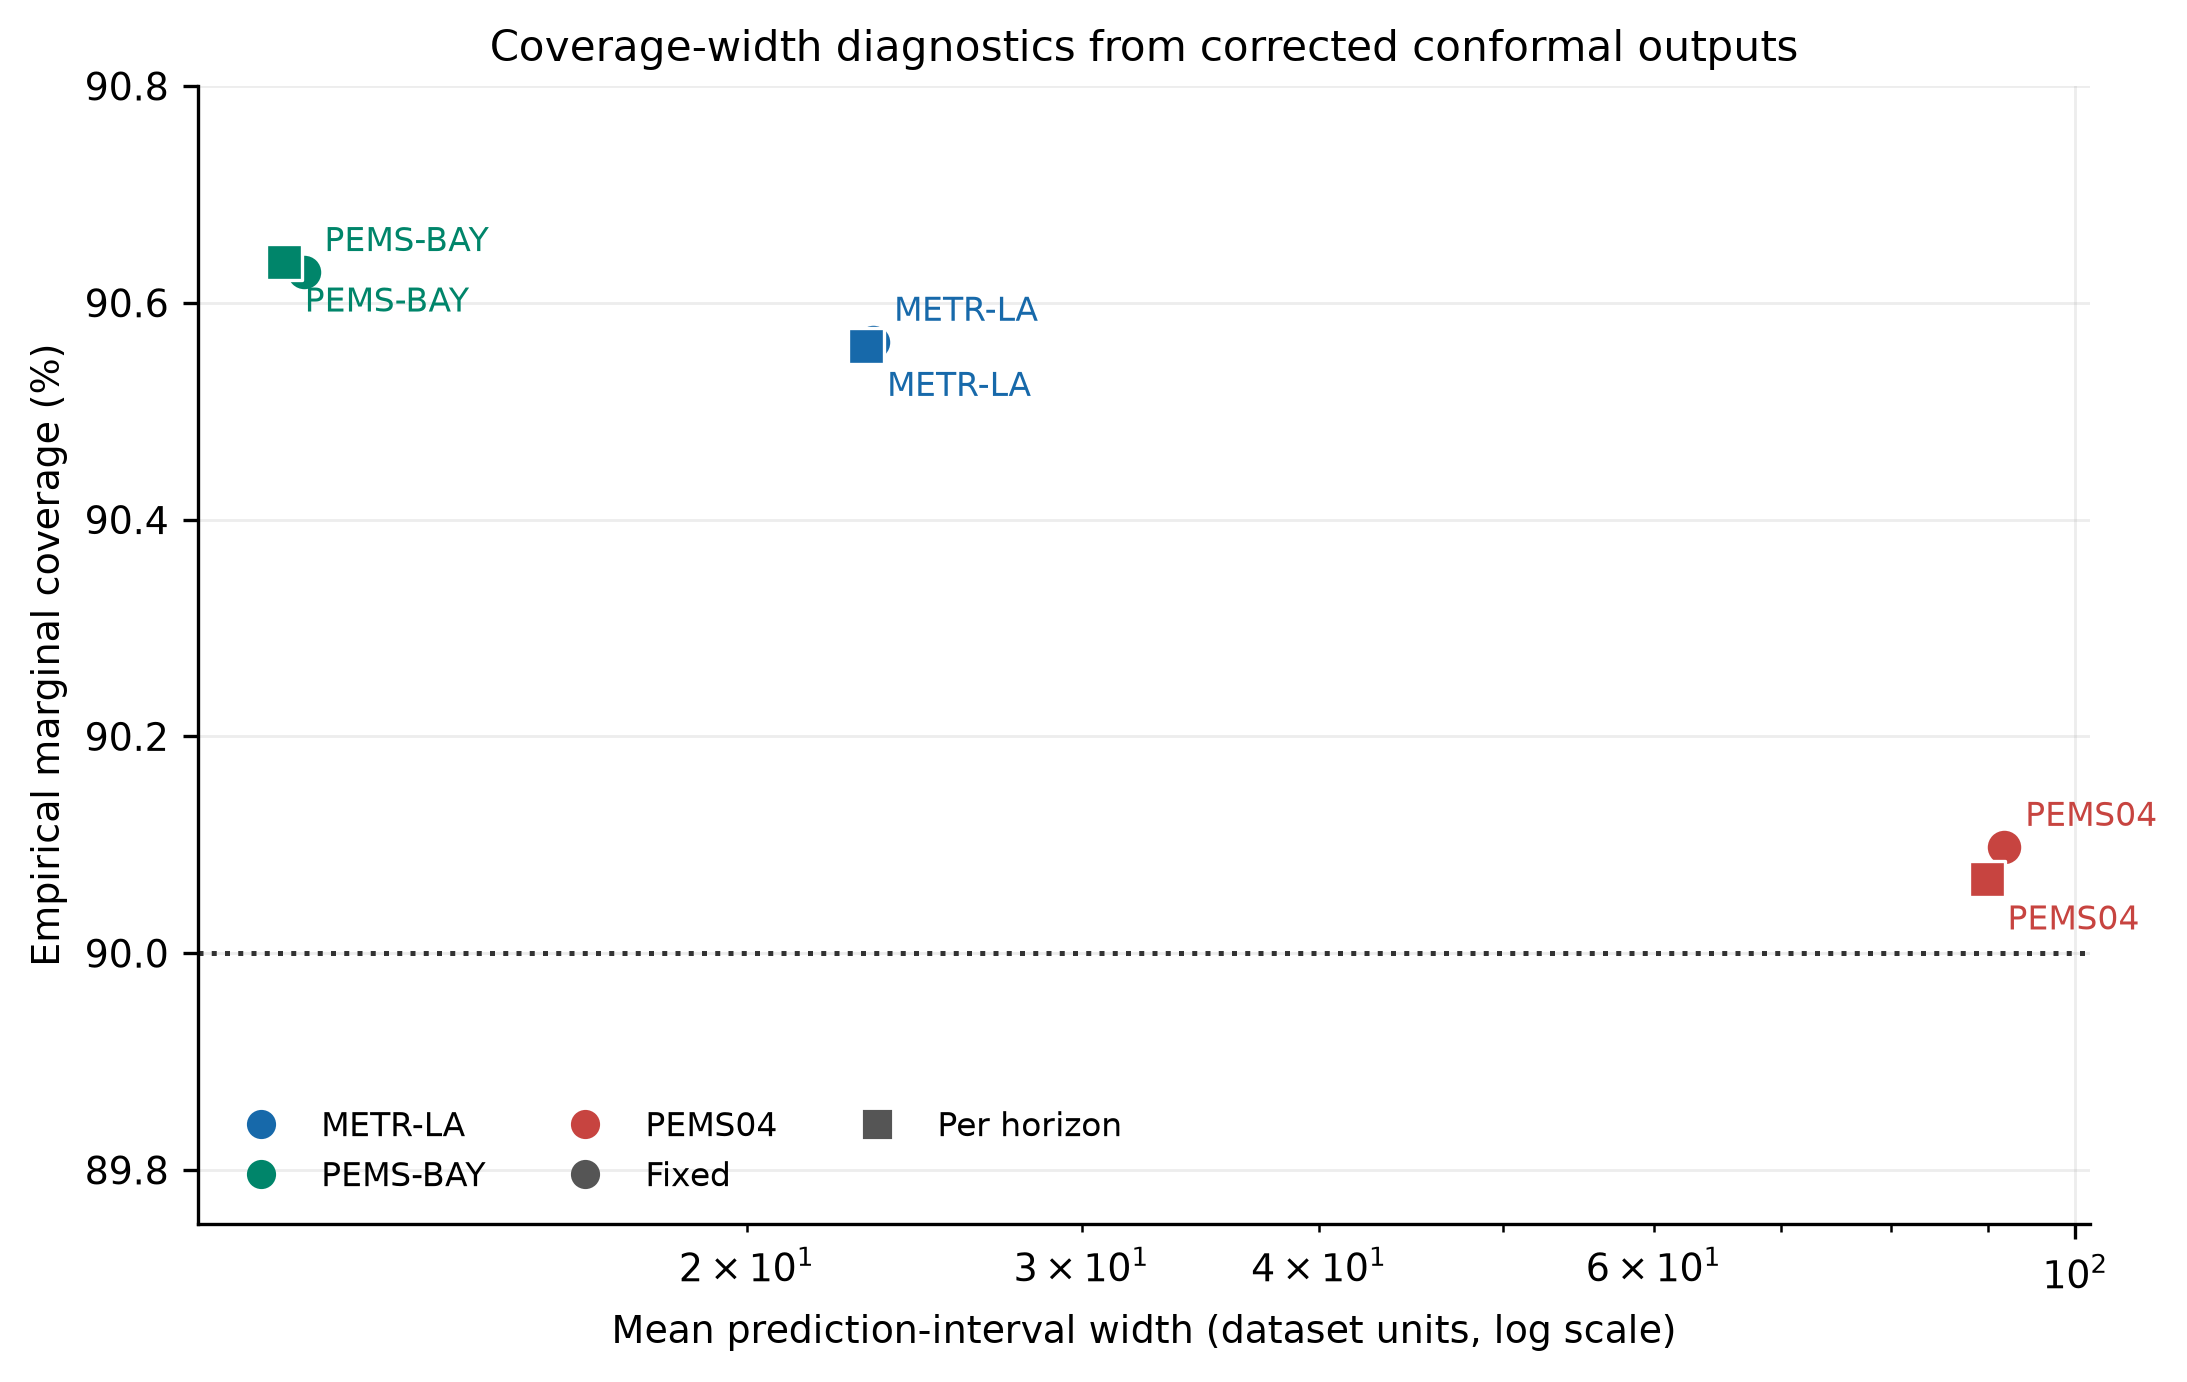
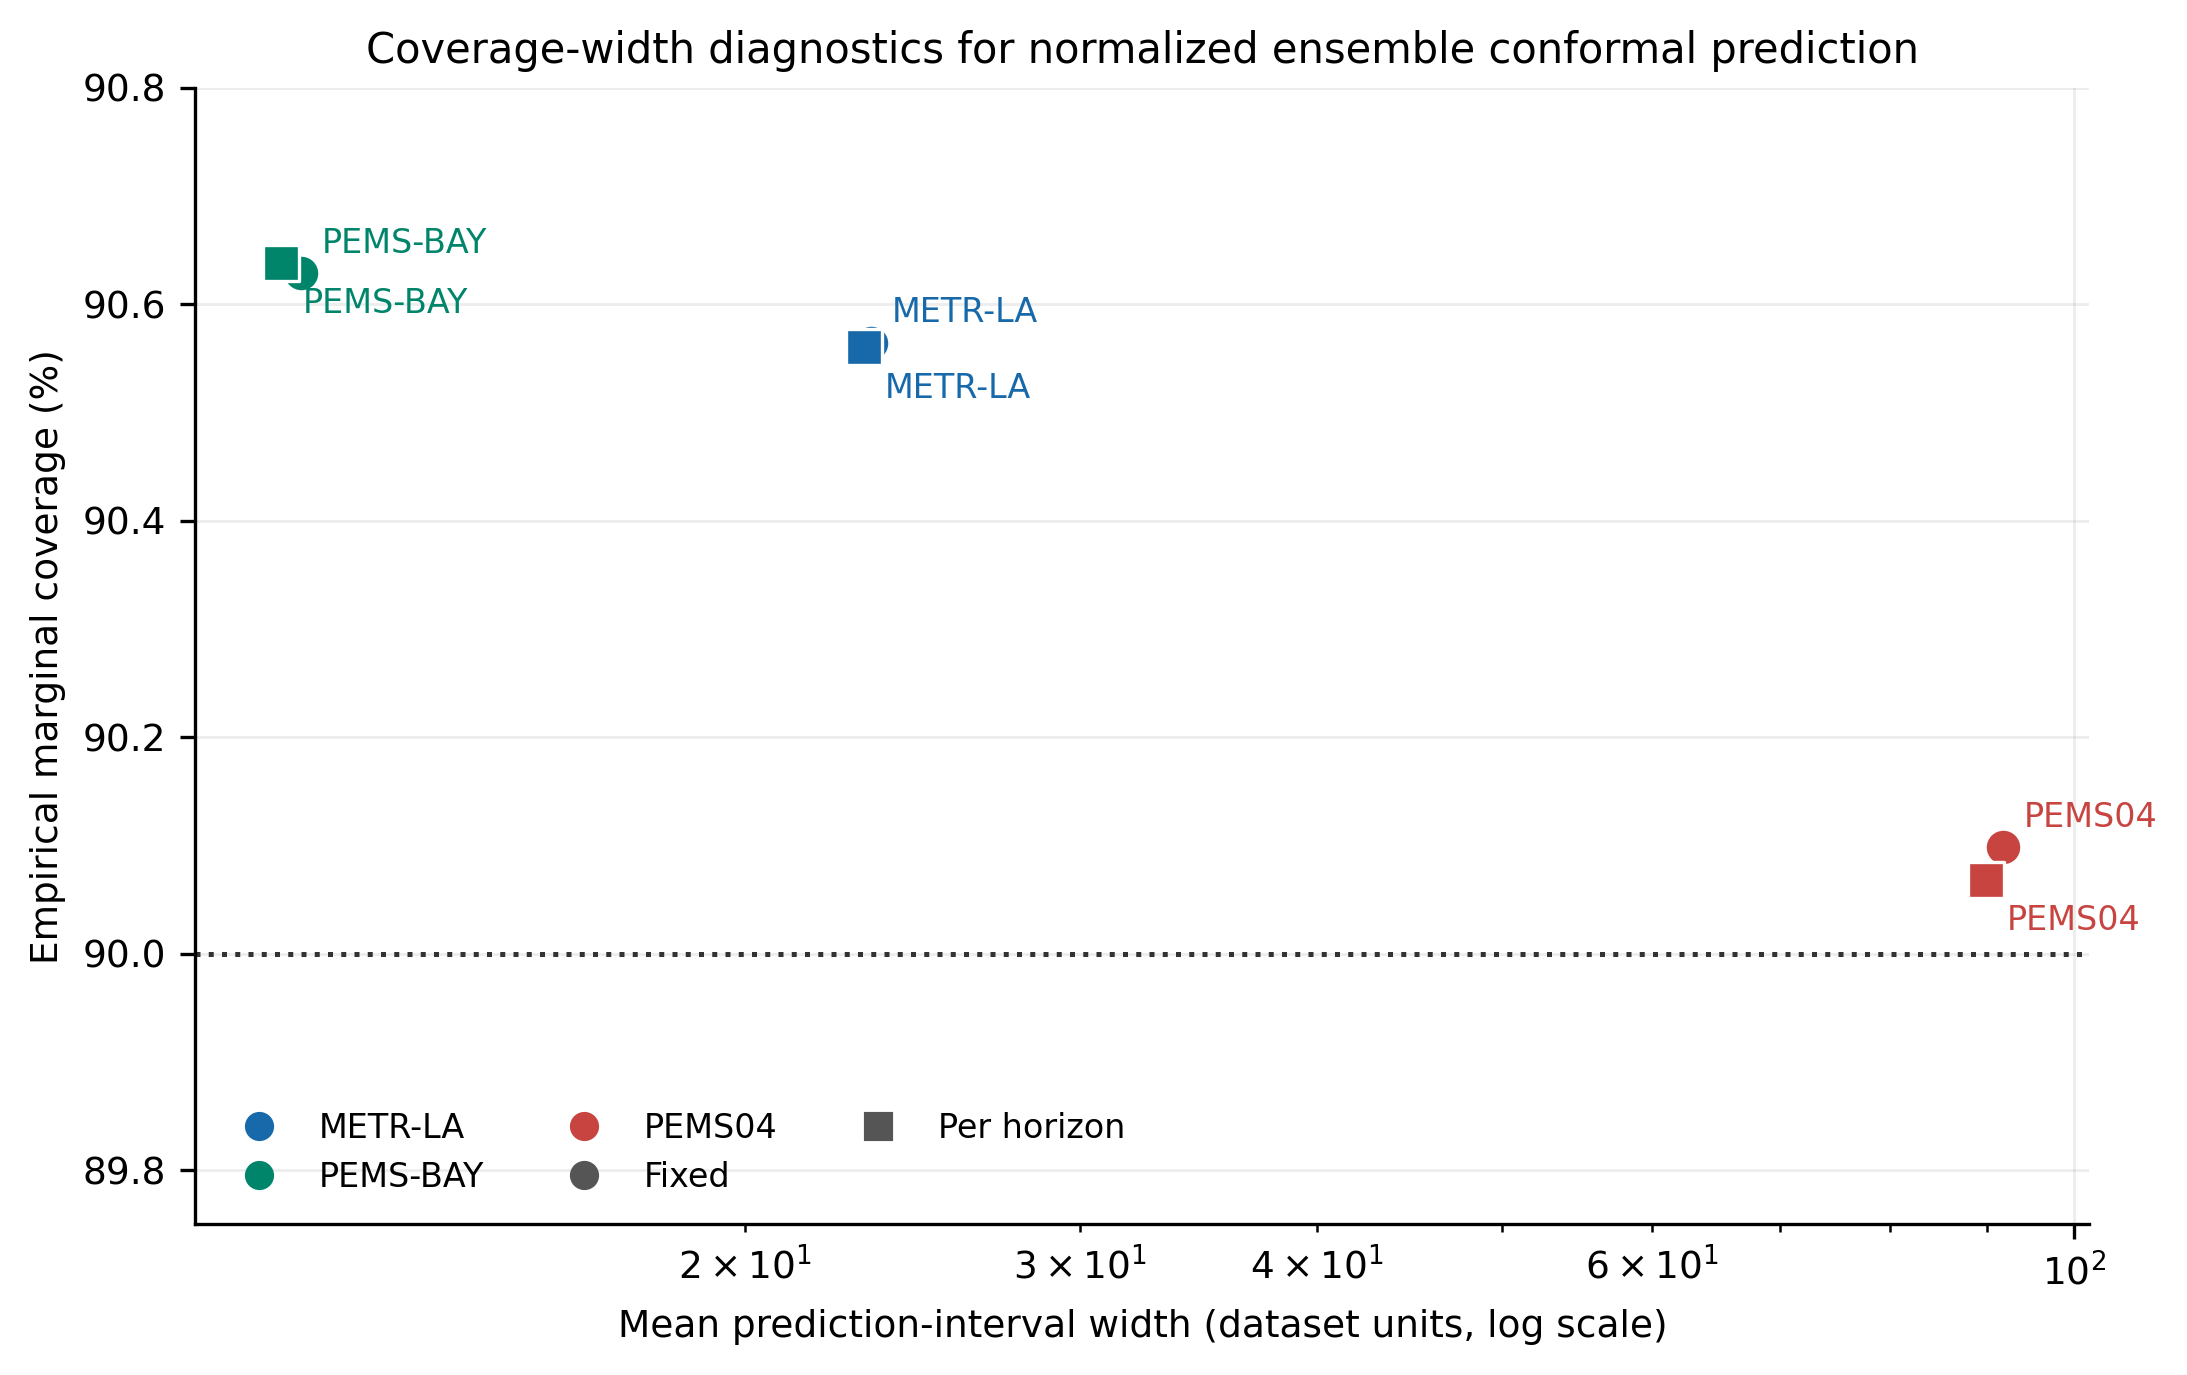
Archive analytical materials

diff --git a/scripts/generate_conformal_appendix_figures.py b/scripts/generate_conformal_appendix_figures.py
@@ -1,4 +1,4 @@
-"""Regenerate appendix conformal figures from corrected compact metrics."""
+"""Generate appendix conformal figures from compact metrics."""
 
 from __future__ import annotations
 
@@ -92,7 +92,7 @@ def generate_tradeoff() -> None:
     axis.set_xscale("log")
     axis.set_xlabel("Mean prediction-interval width (dataset units, log scale)")
     axis.set_ylabel("Empirical marginal coverage (%)")
-    axis.set_title("Coverage-width diagnostics from corrected conformal outputs")
+    axis.set_title("Coverage-width diagnostics for normalized ensemble conformal prediction")
     axis.set_ylim(89.75, 90.8)
 
     dataset_handles = [
@@ -163,9 +163,9 @@ def generate_horizon_figure(key: str, output_name: str) -> None:
     )
     axes[-1].legend(loc="best", fontsize=8)
     figure.suptitle(
-        "Per-horizon coverage from corrected conformal outputs"
+        "Per-horizon empirical marginal coverage"
         if key == "PICP"
-        else "Per-horizon interval width from corrected conformal outputs",
+        else "Per-horizon mean interval width",
         y=1.02,
         fontsize=11,
     )
@@ -180,7 +180,7 @@ def main() -> None:
     generate_tradeoff()
     generate_horizon_figure("MPIW", "uq6_pi_horizon_bands.png")
     generate_horizon_figure("PICP", "uq7_pi_coverage_calibration.png")
-    print("Regenerated uq5, uq6, and uq7 from corrected conformal metrics")
+    print("Generated uq5, uq6, and uq7 from conformal metrics")
 
 
 if __name__ == "__main__":

diff --git a/scripts/generate_conformal_cross_dataset_figure.py b/scripts/generate_conformal_cross_dataset_figure.py
@@ -1,4 +1,4 @@
-"""Generate the corrected cross-dataset conformal summary figure."""
+"""Generate the cross-dataset conformal summary figure."""
 
 from __future__ import annotations
 
@@ -104,7 +104,7 @@ def main():
         bbox_to_anchor=(0.5, 1.01),
     )
     fig.suptitle(
-        "Corrected normalized ensemble-conformal diagnostics",
+        "Normalized ensemble-conformal diagnostics",
         y=1.08,
         fontsize=14,
         fontweight="bold",
